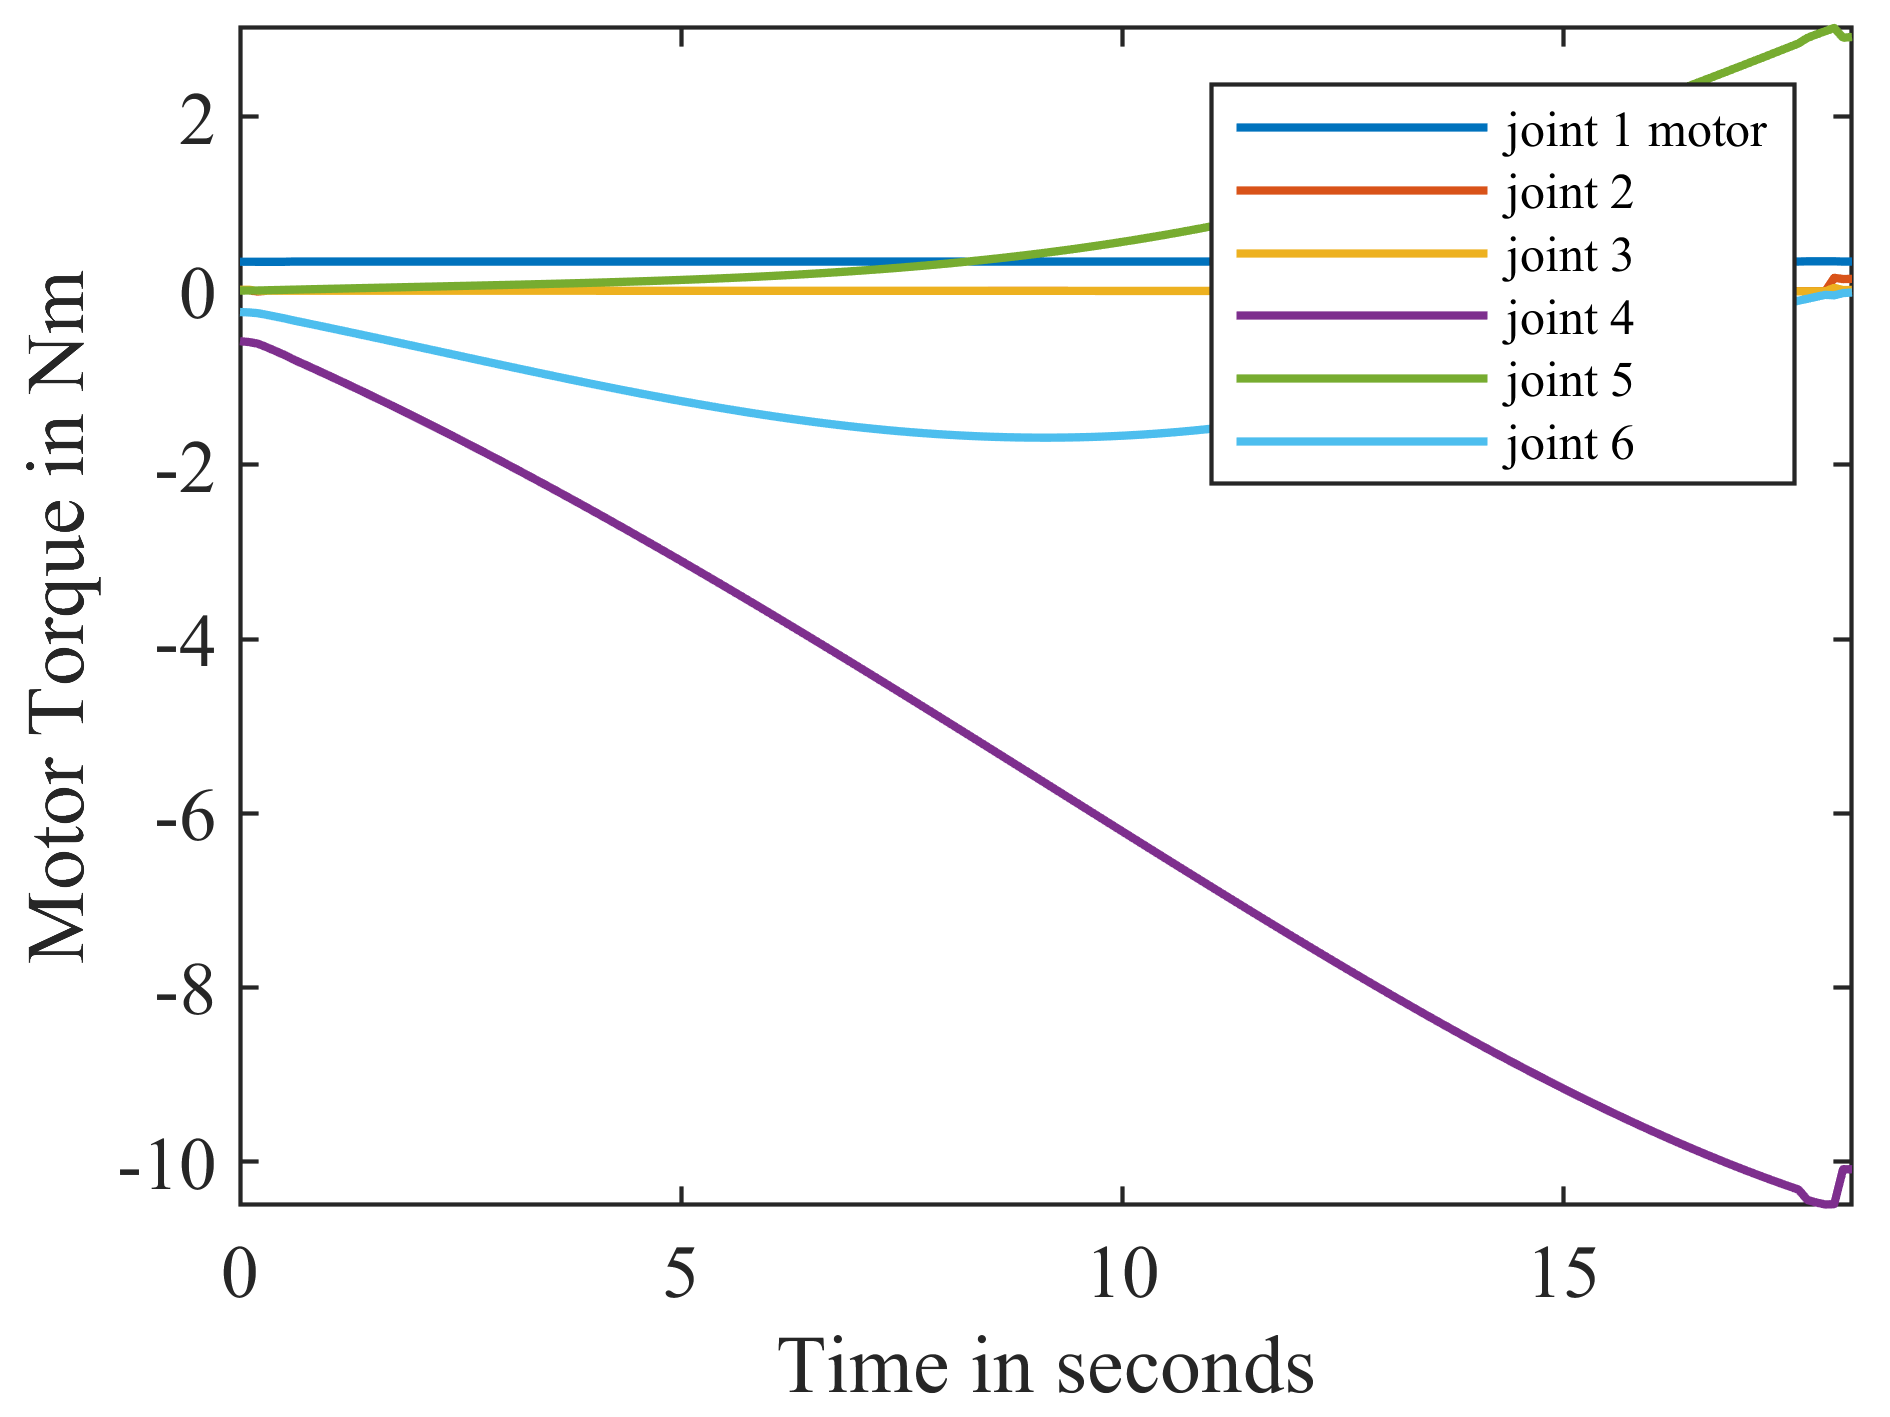
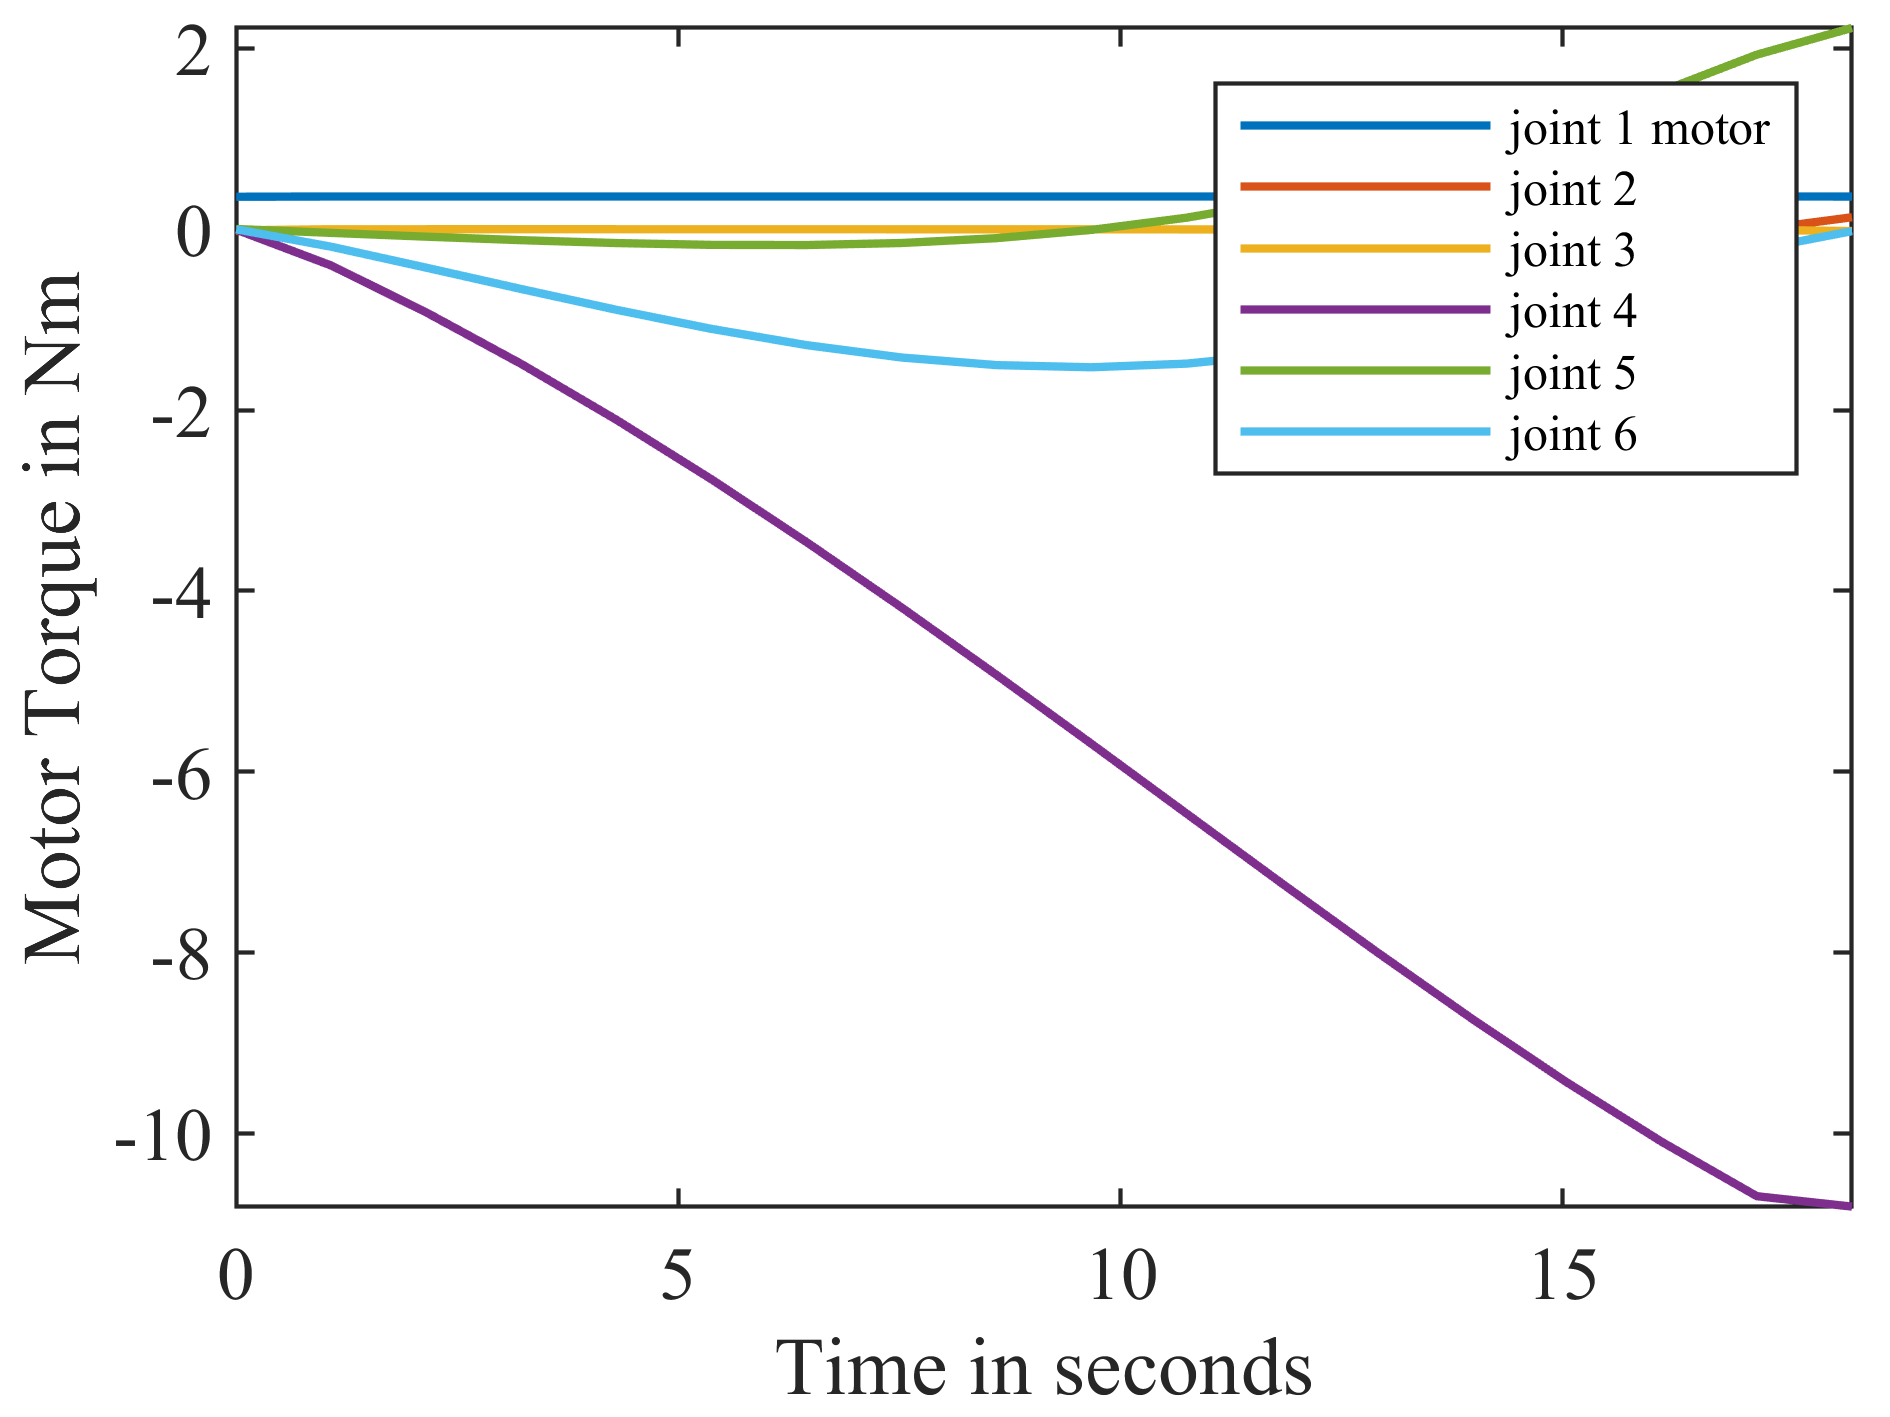
Rectified torque calculation

diff --git a/Robot-Arm-Control/torque_files/torque6dof.m b/Robot-Arm-Control/torque_files/torque6dof.m
@@ -4,7 +4,7 @@ function torque = torque6dof(q,q_dot,q_dotdot)
     %% Define 
     n = 6;
     load robot_description.mat inertia DH;
-    dh = DH(q);
+    dh = DH(zeros(6,1));
     
     lc = zeros(3,n+1); % COM coordinates in zero position wrt frame {0}
     m = zeros(n); % mass of links
@@ -14,7 +14,7 @@ function torque = torque6dof(q,q_dot,q_dotdot)
         m(i) = inertia(i,2);
         I0(:,:,i) = reshape(inertia(i,6:end),[3 3])';
     end
-    lc = [lc;ones(1,n+1)]; % For multiplication with transformation matrices
+    lc = [lc;ones(1,n+1)] % For multiplication with transformation matrices
        
     V0 = [0;0;0;0;0;0]; % Twist of the frame 0
     Vdot0 = [0;0;0;0;0;-9.81];
@@ -25,21 +25,24 @@ function torque = torque6dof(q,q_dot,q_dotdot)
 
     %% Don't do anything below
 
-    T0 = zeros(4,4,n); % Transformation matix from frame 0 to frame i
-    for i=1:n
-        T = eye(4);
-        for j=1:i
-            T = T*transDH(dh(j,1:4));
-        end
-        T0(:,:,i) = T; % Store transformation matrices from 0 to i
-    end
+%     T0 = zeros(4,4,n); % Transformation matix from frame 0 to frame i
+%     for i=1:n
+%         T = eye(4);
+%         for j=1:i
+%             T = T*transDH(dh(j,1:4));
+%         end
+%         T0(:,:,i) = T; % Store transformation matrices from 0 to i
+%     end
 
-     % xc is the COMi coordinates wrt dh frame i-1 
+    T0 = forwardKinematicsAllJoints(zeros(6,1));
+
+    % xc is the COMi coordinates wrt dh frame i-1 
     xc = zeros(4,n+1);
     xc(:,1) = lc(:,1);
     for i=2:n
         xc(:,i)=Tinv(T0(:,:,i-1))*lc(:,i);
     end
+    xc=xc
 
     I = zeros(3,3,n); % Convert to ith frame orientation
     for i=1:n
@@ -52,6 +55,7 @@ function torque = torque6dof(q,q_dot,q_dotdot)
     for i=1:n
         A(:,i) = [0;0;dh(i,5);(-dh(i,5)*box3([0;0;1])*xc(1:3,i) + (1-dh(i,5))*[0;0;1])];
     end
+    A = A
     
     % M(:,:,i) is the initial transformation matrix of frame i-1 wrt frame i
     M = zeros(4,4,n+1);

diff --git a/Robot-Arm-Control/plotting/q_torques.m b/Robot-Arm-Control/plotting/q_torques.m
@@ -12,17 +12,17 @@ fig = figure; clf
 %% plot
 % load('q.mat')
 force_to_tau_conversion =  0.00793;
-plot(time_sequence, tau(1, :)*force_to_tau_conversion ,'LineWidth',1);
+plot(time_sequence1, tau1(1, :)*force_to_tau_conversion ,'LineWidth',1);
 hold on
-plot(time_sequence,tau(2, :),'LineWidth',1);
+plot(time_sequence1,tau1(2, :),'LineWidth',1);
 hold on
-plot(time_sequence, tau(3, :),'LineWidth',1);
+plot(time_sequence1, tau1(3, :),'LineWidth',1);
 hold on
-plot(time_sequence,tau(4, :),'LineWidth',1);
+plot(time_sequence1,tau1(4, :),'LineWidth',1);
 hold on
-plot(time_sequence,tau(5, :),'LineWidth',1);
+plot(time_sequence1,tau1(5, :),'LineWidth',1);
 hold on
-plot(time_sequence,tau(6, :),'LineWidth',1);
+plot(time_sequence1,tau1(6, :),'LineWidth',1);
 hold on
 
 %% plot

diff --git a/Robot-Arm-Control/main.m b/Robot-Arm-Control/main.m
@@ -4,15 +4,15 @@ close all
 %%
 addpath(genpath(pwd))
 n_links=6;
-%q = [0.75;pi/2;-pi/2;pi/2;-pi/4;0];
-q = zeros(6,1);
+q = [0.75;pi/2;-pi/2;pi/2;-pi/4;0];
+%q = zeros(6,1);
 q_dot = [0;0;0;0;0;0];
 q_dotdot = zeros(n_links,1);
 
 l11 = 648.9/1000; l12 = 267.95/1000; 
-l21 = 82/1000; l22 = 365.5/1000; 
+l21 = 82/1000; l22 = 290/1000; 
 l3 = 111.25/1000;  
-l4 = 309/1000;
+l4 = 360/1000;
 l5 = 42.25/1000;
 l61 = 99/1000; l62 = 14.35/1000;
 
@@ -70,7 +70,7 @@ b_dim(:,6)=[109;84;97]/1000;
 save('robot_description.mat','n_links','f_c','b_dim','-append')
 
 %% visualize initial collision boxes
-[T_,A]=fk_for_ik([0.2; pi/6; -2*pi/3; 0; -pi/20; 0],zeros(4,4));
+[T_,A]=fk_for_ik(q,zeros(4,4));
 Link_Frame=eye(4);
 collision_boxes{n_links}=[];
 for i=1:n_links
